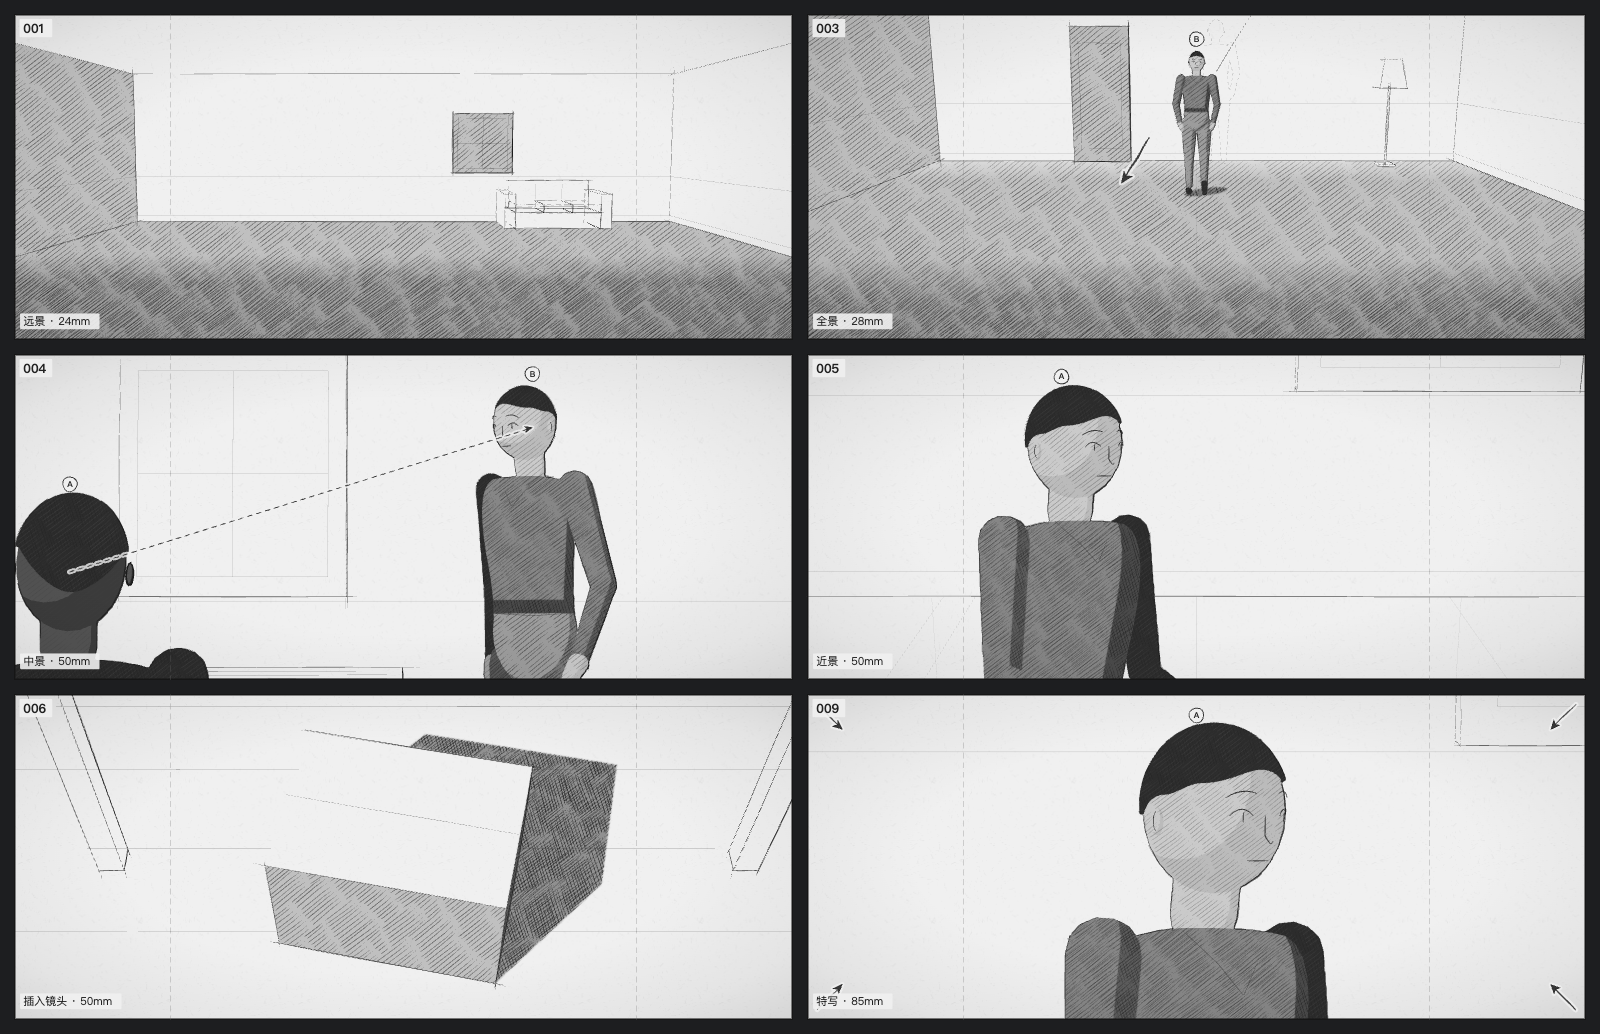
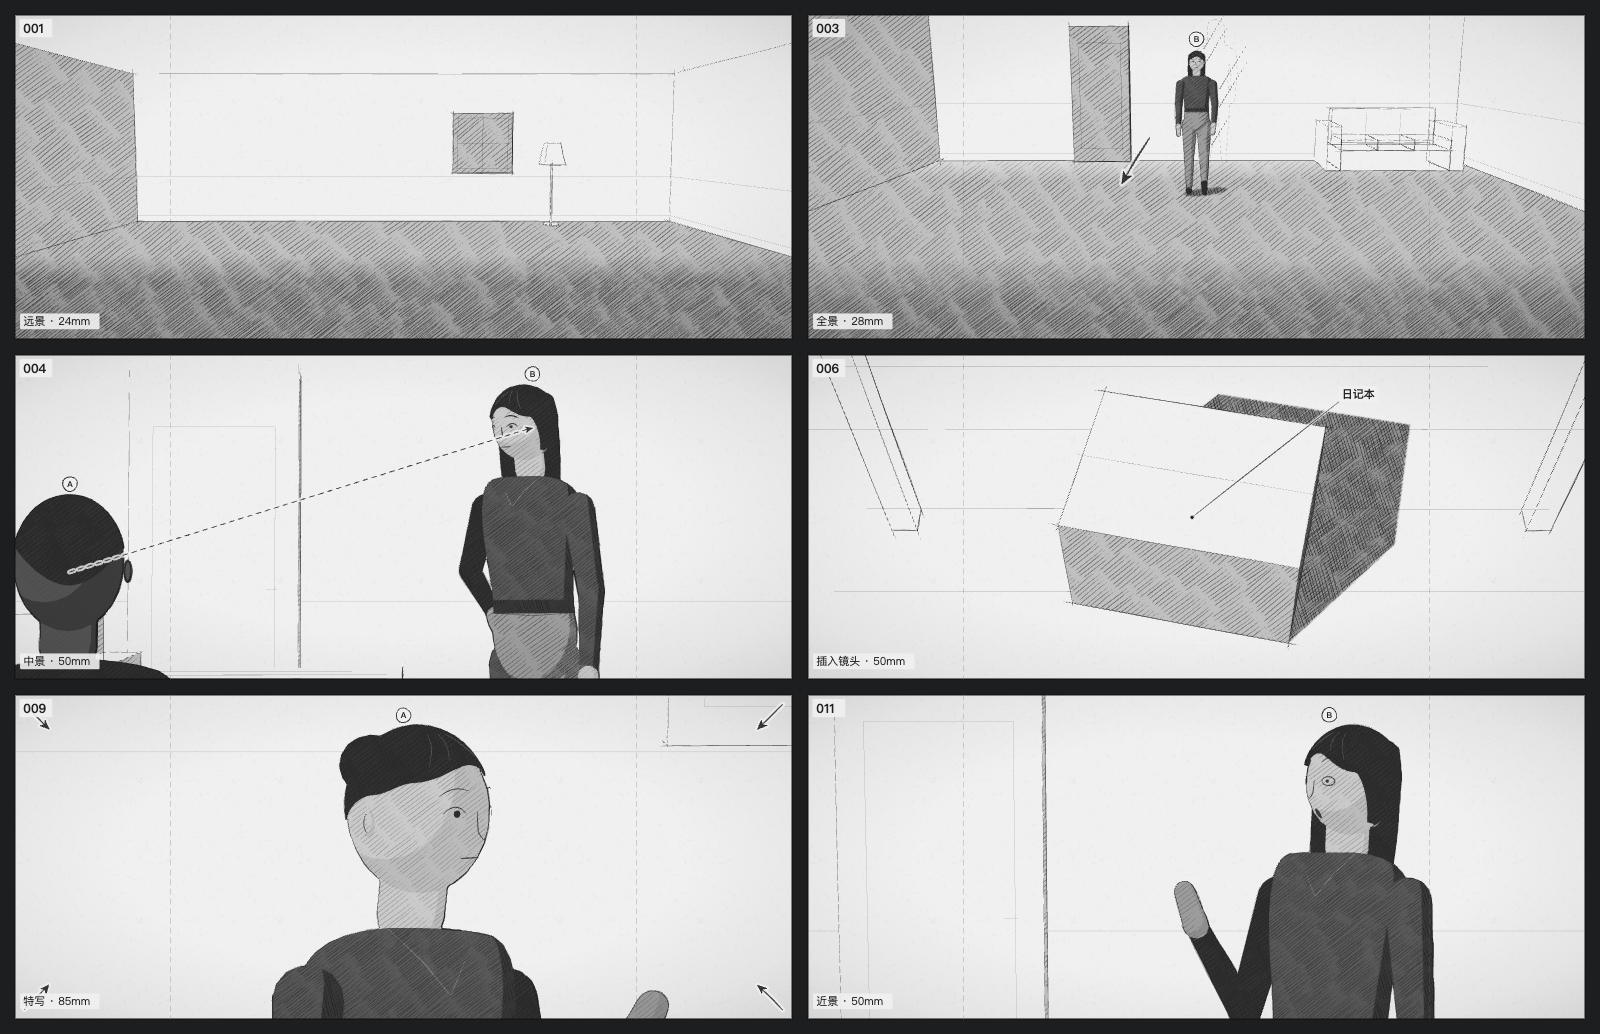
docs: S5b README, PLAN and media — feelings, light by time of day, object names
- the object name sits beside its object's projected box, not on it
- readme:media: the demo sheet prefers a board with a feeling and a named
  insert; board-moods.png shows six fixture shots (the demo is all by day)

diff --git a/scripts/readme-media.ts b/scripts/readme-media.ts
@@ -2,7 +2,9 @@
  * README images, taken from the real `--demo` project (nothing staged by
  * hand): a short hero GIF of the workflow, a contact sheet of the demo's
  * pencil boards rendered by the same core renderer the app uses, and one
- * screenshot per feature group.
+ * screenshot per feature group. Plus (S5b) board-moods.png: six of the
+ * renderer's fixture shots — feelings, night, dusk, a named object — since the
+ * demo's scenes are all by day; the README says where it comes from.
  *
  *   npm run readme:media -- [--out docs/media] [--skip-build] [--no-gif]
  *
@@ -14,8 +16,8 @@ import { mkdir, stat, writeFile } from 'node:fs/promises';
 import { join, resolve } from 'node:path';
 import { parseArgs } from 'node:util';
 import { chromium, type Browser, type Page } from '@playwright/test';
-import type { BoardView, Shot } from '@storyscript/contracts';
-import { renderBoard } from '@storyscript/core';
+import type { BoardView, Emotion, Shot } from '@storyscript/contracts';
+import { layoutBoard, renderBoard, shotFields, standardBoard, STANDARD_LOOK, STANDARD_ROSTER, standardSubject as subject, VARIETY_SHOTS } from '@storyscript/core';
 import { api, buildWeb, ROOT, signInAnywhere, startApp, type RunningApp } from '../e2e/support.ts';
 
 const { values } = parseArgs({
@@ -63,6 +65,9 @@ function pickBoards(boards: BoardView[], shots: Shot[]): BoardView[] {
     if (b && !picked.includes(b) && picked.length < 6) picked.push(b);
   };
   add(scene.find((b) => people(b) >= 2));
+  // S5b: a face with a feeling, and an insert that names its object
+  add(scene.find((b) => b.spec.scene.subjects.some((x) => x.emotion)));
+  add(scene.find((b) => b.spec.overlay.labels.some((l) => l.prop_id)));
   const sizes = new Set(picked.map((b) => sizeOf.get(b.shot_id)));
   for (const b of scene) {
     const size = sizeOf.get(b.shot_id);
@@ -92,6 +97,37 @@ async function contactSheet(browser: Browser, page: Page): Promise<void> {
   await sheet.setContent(html);
   await sheet.waitForTimeout(300);
   const path = join(OUT, 'pencil-boards.png');
+  await sheet.locator('.grid').screenshot({ path });
+  await ctx.close();
+  await report(path);
+}
+
+/** S5b: feelings, night, dusk and a named object, from the renderer's fixture shots. */
+async function moodSheet(browser: Browser): Promise<void> {
+  const ctxOf = (o: { time_label?: string } = {}) => ({ scene_sides: null, roster: STANDARD_ROSTER, look: STANDARD_LOOK, technique: null, aspect: '2.39' as const, seed: 7, ...o });
+  const face = (alias: string, emotion: Emotion, facing: 'camera' | '3q_left' | '3q_right') =>
+    layoutBoard(shotFields({ shot_size: 'CU', env: 'interior', subjects: [subject(alias, { facing, emotion })] }), ctxOf());
+  const variety = (key: string) => standardBoard(VARIETY_SHOTS.find((s) => s.key === key)!);
+  const can = layoutBoard(shotFields({ template: 'insert', shot_size: 'INSERT', angle: 'high', env: 'interior', props: ['table', 'can'], object_name: '水果罐头' }), ctxOf());
+  const specs = [
+    { spec: face('c2', 'happy', '3q_right'), code: '开心' },
+    { spec: face('c1', 'sad', 'camera'), code: '难过' },
+    { spec: face('c4', 'surprised', '3q_left'), code: '吃惊' },
+    { spec: variety('v13-night-street'), code: '夜' },
+    { spec: variety('v14-dusk-field'), code: '黄昏' },
+    { spec: can, code: '物件名称' },
+  ];
+  const cells = specs.map(({ spec, code }) => `<div class="cell">${renderBoard(spec, 'pencil', { overlay: true, code })}</div>`);
+  const html = `<!doctype html><meta charset="utf-8"><style>
+    html,body{margin:0;background:#1d1e20}
+    .grid{display:grid;grid-template-columns:repeat(3,1fr);gap:12px;padding:12px;width:1572px}
+    .cell svg{display:block;width:100%;height:auto}
+  </style><div class="grid">${cells.join('')}</div>`;
+  const ctx = await browser.newContext({ viewport: { width: 1600, height: 900 }, deviceScaleFactor: 1 });
+  const sheet = await ctx.newPage();
+  await sheet.setContent(html);
+  await sheet.waitForTimeout(300);
+  const path = join(OUT, 'board-moods.png');
   await sheet.locator('.grid').screenshot({ path });
   await ctx.close();
   await report(path);
@@ -206,6 +242,7 @@ async function main(): Promise<void> {
     if (title !== '剧本') throw new Error(`expected the demo project's script page, got "${title}"`);
     await screenshots(page);
     await contactSheet(browser, page);
+    await moodSheet(browser);
     await ctx.close();
     if (!values['no-gif']) await heroGif(browser, app);
   } finally {

diff --git a/packages/core/src/board/layout.ts b/packages/core/src/board/layout.ts
@@ -914,10 +914,24 @@ export function layoutBoard(shot: ShotFields, ctx: LayoutContext): BoardSpec {
       const FW = 1840;
       const FH = FW / Number(aspect);
       const tw = labelWidthPx(objectName) / FW;
-      const right = c.x < 0.62;
-      let x = right ? c.x + 0.07 : c.x - 0.07 - tw;
-      let y = c.y - 0.16;
-      if (y < 0.12) y = c.y + 0.22;
+      const th = 34 / FH;
+      // the object's extent in frame (its box corners): the label goes beside it, not on it
+      const r = Math.max(named.w, named.d) / 2;
+      const corners = [named.y, named.y + named.h].flatMap((y) =>
+        [-1, 1].flatMap((sx) => [-1, 1].map((sz) => projectPoint(basis, [named.x + sx * r, y, named.z + sz * r]))),
+      );
+      const seen = corners.filter((q) => q.visible);
+      const box = seen.length
+        ? { x0: Math.min(...seen.map((q) => q.x)), x1: Math.max(...seen.map((q) => q.x)), y0: Math.min(...seen.map((q) => q.y)), y1: Math.max(...seen.map((q) => q.y)) }
+        : { x0: c.x, x1: c.x, y0: c.y, y1: c.y };
+      const gap = 0.025;
+      const baseline = (top: number) => top + th * 0.8;
+      let x: number;
+      let y: number;
+      if (box.x1 + gap + tw <= 0.98) [x, y] = [box.x1 + gap, baseline(Math.max(box.y0, 0.1))];
+      else if (box.x0 - gap - tw >= 0.02) [x, y] = [box.x0 - gap - tw, baseline(Math.max(box.y0, 0.1))];
+      else if (box.y0 - gap - th >= 0.1) [x, y] = [c.x - tw / 2, box.y0 - gap];
+      else [x, y] = [c.x + 0.07, c.y - 0.16 < 0.12 ? c.y + 0.22 : c.y - 0.16];
       x = clamp(x, 0.02, 0.98 - tw);
       y = clamp(y, 0.12, 0.86 - 10 / FH);
       labels.push({ id: 'l-object', text: objectName, x: round(x, 4), y: round(y, 4), prop_id: named.id });

diff --git a/README.md b/README.md
@@ -1,6 +1,6 @@
 # StoryScript-Mov
 
-![version](https://img.shields.io/badge/version-S5a1-blue)
+![version](https://img.shields.io/badge/version-S5b-blue)
 ![last commit](https://img.shields.io/github/last-commit/ChromiteCr/StoryScript-Mov)
 ![commit activity](https://img.shields.io/github/commit-activity/m/ChromiteCr/StoryScript-Mov)
 ![stars](https://img.shields.io/github/stars/ChromiteCr/StoryScript-Mov)
@@ -32,11 +32,18 @@
   - 取景框和俯视站位图出自同一份数据。
   - 画风是确定性的铅笔稿：先铺明暗再描线，排线统一方向，轮廓收尖。同一个镜头每次画出来都一样，不调用任何图像模型。
   - 人物有脸、发型和上下装，同一个角色每格穿着一致，不同角色一眼分得开；站、坐、走有几种手势，还能躺、跪、伸手、打电话。
-  - 场景按环境自动布景：室内的门窗和家具、教室的黑板和课桌、走廊两侧的门、街道的路灯和行道树、野外的树和山脊；床、沙发、书架、灯、树、手机、杯子、书、包都能画。单人镜头按视线放在三分线上，正反打自动左右交替。
+  - 场景按环境自动布景：室内的门窗和家具、教室的黑板和课桌、走廊两侧的门、街道的路灯和行道树、野外的树和山脊；床、沙发、书架、灯、树、手机、杯子、书、包、罐子、瓶子都能画。单人镜头按视线放在三分线上，正反打自动左右交替。
+  - 人物有情绪：平静、开心、难过、生气、害怕、吃惊、紧张七种，眉眼和嘴跟着变，近景能看到瞳孔，难过时有泪痕。身体也会表达：难过时垂头含胸，生气时上身前倾，害怕时耸肩后缩，吃惊时后仰。情绪可以在镜头编辑器或分镜检查器里选；AI 拆镜会写；都没写时，按镜头的动作描写推断（「林晓愣住」画成吃惊），不用 key。
+  - 光影随场次时间变：场次标题写「夜」的，整格压暗、人物周围留一圈光；写「黄昏」「清晨」的，太阳压低、影子拉长、天空上半部变暗；也可以在检查器里改这一格的时段。
+  - 特写和插入镜头里画不出细节的物件，会在旁边写上名称并拉一条引线（「水果罐头」「录取通知书」）：名称来自镜头的「物件名称」，没填时取剧本道具条目里被动作描写提到的那一个。
   - 旧项目的分镜可以在分镜页一键「用新画法重排」，手改过的和用了 AI 图的不动。
   - 画布上可以直接拖动人物站位和运动箭头，支持撤销和版本历史；导出为分镜 PDF 或单格 PNG。
 
   ![演示项目第 1 场的六格铅笔分镜：远景、全景、过肩中景、近景、插入镜头和特写](docs/media/pencil-boards.png)
+
+  情绪、时段和物件名称（渲染器自带的测试镜头，不是演示项目）：
+
+  ![六格示例：开心、难过、吃惊三张特写，夜晚街道，黄昏野外，带名称标注的水果罐头插入镜头](docs/media/board-moods.png)
 
 - **改的是镜头语法，不是滤镜**
   - 手法模板（对话覆盖、双线交叉、悬疑揭示）和外观预设"宽银幕铅笔分镜"，直接改变机位与构图的默认值：尺度大全景、视点纪律、面孔特写、多画幅中心保护线。
@@ -179,6 +186,7 @@ npm run dev         # 开发服务器（Vite middleware，端口 4700）
 npm run look        # 渲染 12 个标准镜头并输出画风指标
 npm run e2e         # Playwright 端到端测试（需要本机 Chrome）
 npm run readme:media  # 从演示项目重新生成 README 的截图和动图（需要本机 Chrome 和 ffmpeg）
+npx tsx scripts/ai-boards.ts --script fixtures/ai-boards/fruit-can.txt  # 用真实模型拆一场戏并画出铅笔分镜（读 STORYSCRIPT_LLM_* 环境变量）
 ```
 
 参与贡献前请先读 [AGENTS.md](AGENTS.md)（目录归属与硬规则）和 [docs/CLEANROOM.md](docs/CLEANROOM.md)（洁净室规则：不复制任何受限许可项目的代码、提示词或素材）。
@@ -187,6 +195,7 @@ npm run readme:media  # 从演示项目重新生成 README 的截图和动图（
 
 | 版本 | 日期 | 变更内容 | 类型 |
 |------|------|----------|------|
+| S5b | 2026-10-07 | 分镜图表现力（npm 0.11.0）：人物有七种情绪（平静、开心、难过、生气、害怕、吃惊、紧张），脸上的眉眼嘴、瞳孔和泪痕，身体的垂头、前倾、耸肩、后仰都跟着变；情绪可在镜头编辑器和分镜检查器里选，AI 拆镜（breakdown-v4）和润色（polish-v3）会写，都没写时按动作描写推断；场次标题的时间决定光影（夜：整格压暗、人物周围留光；黄昏和清晨：低角度光、长影子、天空压暗），检查器可改时段；特写和插入镜头里的物件旁写上名称并拉引线，名称来自新的「物件名称」字段或剧本道具条目；新增罐子、瓶子两种道具；人物去掉垫肩感、头发加发丝、眼睛有瞳孔；修复顶拍插入镜头物件跑出画面；旧镜头和旧分镜的哈希不变，可用「用新画法重排」更新；新增 `scripts/ai-boards.ts`，用真实模型把一场戏拆镜并画成铅笔分镜 | feat |
 | S5a1 | 2026-10-07 | 新增发布流水线 `.github/workflows/release.yml`：推一个版本 tag（`S5`、`S5a`、`S5a1` 这类）就自动跑类型检查、测试、构建与许可证检查，通过后把服务端打包成 tgz，附件挂到同名的 GitHub Release，Actions 产物里也留一份；手动触发只出产物不建 Release；不使用任何 secret | chore |
 | S5a | 2026-10-07 | 粘贴整理（npm 0.10.0）：页面底栏、计划页、现场页都能打开；贴入群聊等文字（最多 2 万字，每 3000 字一段、每段一个任务，计入每日上限），模型按演员档期、场地、器材、道具和服装、拍摄安排、场记、待办、其他归类，日期照提示里的日历换算、按项目时区写入，模糊时间标需确认；核对页显示合并或新建、警告和原文，可改归类、名称、时间和负责人，没被引用的消息单独列出；勾选后在一个事务里写进资源、约束、条次、道具和待办，不会重复写入；计划页新增待办清单（指派组员并显示职务、截止时间、勾选完成）；演示模式可回放示例群聊；含发布前审查修复（应用记录只认规范的条目编号，已应用过的段不能重整；结束早于开始的时间不再被当成跨夜；待办内容限 200 字；整理出的道具为待确认的 AI 条目；改过的条目不再显示旧的对照结果） | feat |
 | S5 | 2026-10-07 | 剧本体检与用量看板（npm 0.9.0）：剧本页「体检」按字数估算每场和全片片长并对照目标时长；AI 一次通读剧本（每步最多外发 3 次，计入每日上限，演示模式可回放），按场列出九类拍摄难点，每条带原文引用和学生能做到的替代拍法，可勾选已处理（服务器版记下是谁），重新体检时保留勾选，剧本改版后对不上的条目单独列出；设置新增「用量」：今天和累计的请求次数、token、14 天柱状图、按功能和按成员的明细，填单价可估算花费，服务器版分开「本组的 key」和「我的 key」（自己的只有自己看得到）并显示每日上限还剩多少；含发布前审查修复（模型回答全对不上时不覆盖上一次体检，剧本改动按原文逐字核对，别人刚重新体检过时提示刷新） | milestone |

diff --git a/docs/superpowers/specs/2026-10-07-s5b-board-expression-design.md b/docs/superpowers/specs/2026-10-07-s5b-board-expression-design.md
@@ -26,6 +26,7 @@
    - 夜：整格变暗，人物周围留一圈光（像被路灯、台灯照着），脸保持亮，窗户是黑的。
    - 检查器可以改这一格的时段。
 4. **造型细节**：上臂收进肩线，不再像垫肩；头发加几道发丝，不再像头盔；眼睛有瞳孔。
+5. **物件名称**（开发中途用户追加）：特写、插入镜头里画不出细节的物件，在分镜上写出名称（如「水果罐头」），并拉引线指向物件。见 §7b。
 
 不做：彩色、真实光源的物理光照、口型、表情动画、按台词判断情绪（台词是谁说的不确定）。
 
@@ -39,6 +40,7 @@
   - `TimeOfDay = z.enum(['day','dusk','night'])`；
   - `BoardScene.time: TimeOfDay.optional()`：不填等于 day。
 - `LayoutContext.time_label?: string | null`：服务端从镜头所在场次的 `time_label` 读出。
+- （§7b）`ShotFields.object_name: string | null`（可选）；`BoardLabel.prop_id`（可选）；`PropKind` 新增 `can`、`bottle`；`LayoutContext.prop_names`。
 
 ## 3 不变量
 
@@ -111,16 +113,16 @@ layout：`BoardSubject.emotion = shot.subjects[i].emotion ?? inferred.get(alias)
   - 日：方位 45°、高度 40°，不变；
   - 黄昏：方位 70°、高度 14°（侧逆光，影子长）；
   - 夜：方位 30°、高度 55°（主光从上方照人物）。
-- pencil：
+- pencil（按实际实现）：
   - **夜**：
-    - 整格铺一层暗调（tone 2.4，进排线蒙版，所以有交叉排线）；
-    - 主要人物的上半身周围有一圈径向渐变的亮区（光池，半径约人物高的 0.9 倍），人物照常画在上面；
-    - 布景的明暗整体 +1 档；窗玻璃画成暗的；
-    - 暗角加重。
+    - 布景外壳和地面暗 0.9 档，镜头列出的道具只暗 0.3 档（光照到的东西比房间亮）；非整数档的填色在相邻两档之间插值；
+    - 人物上半身（无人时画面中部）有一个椭圆光池，光池半径 45% 以内不压暗，往外线性压向 tone 2.7（不透明度最高 0.86），画在所有图形之上、排线之下；同一套衰减写进排线蒙版和 toneRaster，所以暗处有交叉排线；
+    - 暗角 ×2.2。
   - **黄昏**：
-    - 天空（地平线以上）从上往下由 tone 1.4 渐变到 0；
-    - 影子随低角度光自然拉长；
-    - 暗角略加重。
+    - 画面上半部从顶边（tone 2，不透明度 0.6）渐变到地平线（限制在画高的 35%–70%）。原设计「天空渐变铺在最底层」在机位低头时几乎看不到天空，改为盖在画面上；
+    - 人物投影按光的高度拉长：tan40°/tan(高度)，限制在 1–4 倍；
+    - 暗角 ×1.5。
+  - 「窗玻璃画成暗的」未做：夜景整体压暗后已经足够。
 - 检查器：「时段」选择（日 / 黄昏 / 夜），改了算手改。
 
 ## 7 AI
@@ -129,10 +131,19 @@ layout：`BoardSubject.emotion = shot.subjects[i].emotion ?? inferred.get(alias)
 - 归一化表：开心、高兴、喜悦 → happy；难过、悲伤、伤心 → sad；生气、愤怒 → angry；害怕、恐惧 → afraid；吃惊、惊讶、震惊 → surprised；紧张、不安、焦虑 → tense；平静、中性、无 → neutral。不认识的值交给 zod 报错，进修复轮。
 - 演示回放的录音没有 emotion，照样通过（字段可选），由画面文字推断。
 
+## 7b 物件名称（用户中途追加）
+
+- **名称来源**：`object_name`（AI 或用户写，12 字以内，超出时分镜只写前 12 字并给警告）；没有时，取项目道具条目（名称和别名）里被 `action`、再被 `narrative_purpose` 提到的最长一个。
+- **标哪件**：插入镜头标主体物件；其他镜头标列出的第一件小东西（手机、杯子、书、包、罐子、瓶子、箱子），物件中心投影在画面内才标。
+- **画法**：纸片标签（铅笔稿加粗），引线从标签边缘指向物件中心，终点一个小圆点；结构稿同样画。标签可在检查器里改字（「物件名称」行）。
+- **新道具**：`can`（罐子：圆柱，有盖和罐沿）、`bottle`（瓶子：瓶身、肩、瓶颈），按杯子的回转体画法；放在桌面上。
+- **顺带修复**：顶拍的插入镜头以前把物件放在镜头前方 d 米处，正上方的相机拍不到；没有人物、相机朝下时，物件放到相机正下方。
+- **AI 测试**：`scripts/ai-boards.ts` 用真实模型（`STORYSCRIPT_LLM_*` 环境变量）拆一场戏并画出整页铅笔分镜，测试剧本 `fixtures/ai-boards/fruit-can.txt`（桌上的水果罐头，不同角度的特写）。
+
 ## 8 前端
 
 - 标签：情绪（平静、开心、难过、生气、害怕、吃惊、紧张），时段（日、黄昏、夜）。
-- 镜头编辑器的人物行：加「情绪」选择，第一项是「自动（按画面描写）」。
+- 镜头编辑器的人物行：加「情绪」选择，第一项是「自动（按动作）」；「画面」组加「物件名称」输入框。
 - 分镜检查器：
   - 选中人物时有「情绪」选择；
   - 场景部分有「时段」选择。

diff --git a/docs/PLAN.md b/docs/PLAN.md
@@ -141,6 +141,14 @@ docs/ samples/ fixtures/ scripts/ e2e/
 - 核对时按当前项目现算对照：同类同名资源合并，角色按名字、别名或演员名，场号到当前剧本的场再到 setup，场号加镜号到镜头，待办负责人按组员名字或职务。场还没有 setup 的安排不能应用；同号条次标重复，默认不勾。
 - 应用在一个事务里调用现有服务（资源、约束、条次、道具条目、待办），每条只能应用一次，引用必须还在原文里。
 
+## 情绪、光影与物件名称（S5b）
+
+- **情绪**：`ShotSubject.emotion`、`BoardSubject.emotion` 七种（平静、开心、难过、生气、害怕、吃惊、紧张），都可选，不填时不进内容哈希和 structureHash。优先级：镜头上写的 → AI 写的 → core `inferEmotions` 读动作描写（长词优先，否定词跳过，小句归第一个点名的人、没点名沿用上一个，同一人取最后一个，只有一人时归他）。脸按 `FACES` 表画眉、眼（眼睑加实心瞳孔 / 弯眼 / 睁大的整圈眼眶）、嘴（线 / 张开的实心椭圆），难过有泪痕（faceMinor）；身体按 `EMOTION_BODY` 改关节（骨盆以上前倾后仰、耸肩、垂头、歪头），跑和躺只改脸。
+- **时段**：场次的 `time_label` → `timeOfDay`（夜、凌晨 → night；黄昏、傍晚、清晨 → dusk；其余 day）→ `BoardScene.time`（day 不写）和光的方向。夜：布景和地面暗 0.9 档、列出的道具暗 0.3 档，人物上半身外的椭圆光池以外压向 2.7 档（画面和排线蒙版同一套衰减，toneRaster 也算进去）；黄昏：画面上半部渐暗、影子按光的高度拉长（最多 4 倍）。
+- **物件名称**：`ShotFields.object_name`（可选，12 字以内，不写进哈希的空值），没有时取项目道具条目里被动作描写提到的最长名称。插入镜头标它的主体物件，其他镜头标列出的第一件小东西；物件在画面里才标。`BoardLabel.prop_id` 让标注画引线指向物件中心。新增 `can`、`bottle` 两种道具（回转体，罐子有盖、瓶子有肩和瓶颈）。
+- **提示词**：breakdown-v4、polish-v3 在 v3 / v2 上加【人物情绪与物件】；`--demo` 仍用 v1 回放。
+- RENDERER_VERSION `board-s5b`，PICTURE_VERSION `picture-s5b`；画风指标 L1–L7 仍只对 12 个白天的标准镜头断言。
+
 ## v0.1 范围
 
 | FR | 状态 | 要点 |
